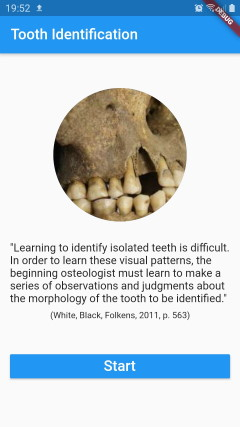
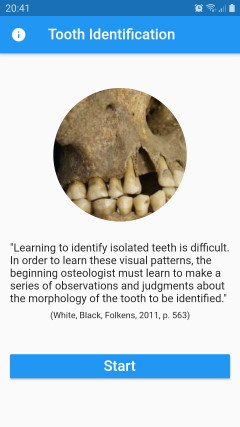
about dialog

Changed region(s): [[0.0292, 0.0609, 0.7292, 0.1218], [0.8458, 0.0, 1.0, 0.0913], [0.0292, 0.0, 0.175, 0.0304]]

diff --git a/lib/main.dart b/lib/main.dart
@@ -1,12 +1,12 @@
 import 'package:flutter/material.dart';
 import 'screens/screen22.dart';
+import 'package:toothidentapp/tools/tools.dart';
 
 void main() {
   runApp(ToothApp());
 }
 
 class ToothApp extends StatelessWidget {
-  // This widget is the root of your application.
   @override
   Widget build(BuildContext context) {
     return MaterialApp(
@@ -18,19 +18,7 @@ class ToothApp extends StatelessWidget {
         Screen22.id: (context) => Screen22(),
       },
       theme: ThemeData(
-        // This is the theme of your application.
-        //
-        // Try running your application with "flutter run". You'll see the
-        // application has a blue toolbar. Then, without quitting the app, try
-        // changing the primarySwatch below to Colors.green and then invoke
-        // "hot reload" (press "r" in the console where you ran "flutter run",
-        // or simply save your changes to "hot reload" in a Flutter IDE).
-        // Notice that the counter didn't reset back to zero; the application
-        // is not restarted.
         primarySwatch: Colors.blue,
-        // This makes the visual density adapt to the platform that you run
-        // the app on. For desktop platforms, the controls will be smaller and
-        // closer together (more dense) than on mobile platforms.
         visualDensity: VisualDensity.adaptivePlatformDensity,
       ),
     );
@@ -41,15 +29,6 @@ class MyHomePage extends StatefulWidget {
   static const String id = 'Home';
   MyHomePage({Key key, this.title}) : super(key: key);
 
-  // This widget is the home page of your application. It is stateful, meaning
-  // that it has a State object (defined below) that contains fields that affect
-  // how it looks.
-
-  // This class is the configuration for the state. It holds the values (in this
-  // case the title) provided by the parent (in this case the App widget) and
-  // used by the build method of the State. Fields in a Widget subclass are
-  // always marked "final".
-
   final String title;
 
   @override
@@ -59,89 +38,73 @@ class MyHomePage extends StatefulWidget {
 class _MyHomePageState extends State<MyHomePage> {
   @override
   Widget build(BuildContext context) {
-    // This method is rerun every time setState is called, for instance as done
-    // by the _incrementCounter method above.
-    //
-    // The Flutter framework has been optimized to make rerunning build methods
-    // fast, so that you can just rebuild anything that needs updating rather
-    // than having to individually change instances of widgets.
     return Scaffold(
       appBar: AppBar(
-        // Here we take the value from the MyHomePage object that was created by
-        // the App.build method, and use it to set our appbar title.
         title: Text(widget.title),
+        leading: IconButton(
+          icon: Icon(Icons.info),
+          onPressed: () {
+            showAppAbout(context);
+          },
+        ),
       ),
       body: Center(
-        // Center is a layout widget. It takes a single child and positions it
-        // in the middle of the parent.
-        child: Column(
-          // Column is also a layout widget. It takes a list of children and
-          // arranges them vertically. By default, it sizes itself to fit its
-          // children horizontally, and tries to be as tall as its parent.
-          //
-          // Invoke "debug painting" (press "p" in the console, choose the
-          // "Toggle Debug Paint" action from the Flutter Inspector in Android
-          // Studio, or the "Toggle Debug Paint" command in Visual Studio Code)
-          // to see the wireframe for each widget.
-          //
-          // Column has various properties to control how it sizes itself and
-          // how it positions its children. Here we use mainAxisAlignment to
-          // center the children vertically; the main axis here is the vertical
-          // axis because Columns are vertical (the cross axis would be
-          // horizontal).
-          mainAxisAlignment: MainAxisAlignment.center,
-          children: <Widget>[
-            CircleAvatar(
-              radius: 100.0,
-              backgroundImage: AssetImage('images/tooth.jpg'),
-            ),
-            Padding(
-              padding:
-                  const EdgeInsets.symmetric(horizontal: 15.0, vertical: 30.0),
-              child: Column(
-                children: <Widget>[
-                  Text(
-                    '"Learning to identify isolated teeth is difficult. ' +
-                        'In order to learn these visual patterns, ' +
-                        'the beginning osteologist must learn to make a series of ' +
-                        'observations and judgments about the morphology of the tooth ' +
-                        'to be identified."',
-                    style: TextStyle(fontSize: 15.0),
-                  ),
-                  SizedBox(height: 8.0),
-                  Text(
-                    '(White, Black, Folkens, 2011, p. 563)',
-                    style: TextStyle(fontSize: 12.0),
-                    textAlign: TextAlign.right,
-                  )
-                ],
+        child: SingleChildScrollView(
+          child: Column(
+            mainAxisAlignment: MainAxisAlignment.center,
+            children: <Widget>[
+              CircleAvatar(
+                radius: 100.0,
+                backgroundImage: AssetImage('images/tooth.jpg'),
               ),
-            ),
-            Padding(
-              padding: const EdgeInsets.all(15.0),
-              child: Row(
-                children: <Widget>[
-                  Expanded(
-                    flex: 1,
-                    child: RaisedButton(
-                      child: Text(
-                        'Start',
-                        style: TextStyle(
-                          fontSize: 20.0,
-                          color: Colors.white,
-                        ),
-                      ),
-                      color: Colors.blue,
-                      onPressed: () {
-                        // go to first screen
-                        Navigator.pushNamed(context, Screen22.id);
-                      },
+              Padding(
+                padding: const EdgeInsets.symmetric(
+                    horizontal: 15.0, vertical: 30.0),
+                child: Column(
+                  children: <Widget>[
+                    Text(
+                      '"Learning to identify isolated teeth is difficult. ' +
+                          'In order to learn these visual patterns, ' +
+                          'the beginning osteologist must learn to make a series of ' +
+                          'observations and judgments about the morphology of the tooth ' +
+                          'to be identified."',
+                      style: TextStyle(fontSize: 15.0),
                     ),
-                  ),
-                ],
+                    SizedBox(height: 8.0),
+                    Text(
+                      '(White, Black, Folkens, 2011, p. 563)',
+                      style: TextStyle(fontSize: 12.0),
+                      textAlign: TextAlign.right,
+                    )
+                  ],
+                ),
               ),
-            ),
-          ],
+              Padding(
+                padding: const EdgeInsets.all(15.0),
+                child: Row(
+                  children: <Widget>[
+                    Expanded(
+                      flex: 1,
+                      child: RaisedButton(
+                        child: Text(
+                          'Start',
+                          style: TextStyle(
+                            fontSize: 20.0,
+                            color: Colors.white,
+                          ),
+                        ),
+                        color: Colors.blue,
+                        onPressed: () {
+                          // go to first screen
+                          Navigator.pushNamed(context, Screen22.id);
+                        },
+                      ),
+                    ),
+                  ],
+                ),
+              ),
+            ],
+          ),
         ),
       ),
     );

diff --git a/lib/screens/screen22.dart b/lib/screens/screen22.dart
@@ -2,6 +2,7 @@ import 'package:flutter/material.dart';
 import 'package:toothidentapp/data/decisions.dart';
 import 'package:toothidentapp/models/decisionstep.dart';
 import 'package:toothidentapp/constans.dart';
+import 'package:toothidentapp/tools/tools.dart';
 
 int _currentStep = 0;
 List<String> _historySteps = ['2.2'];
@@ -121,7 +122,12 @@ class _Screen22State extends State<Screen22> {
               },
             )
           ],
-          leading: new Container(),
+          leading: IconButton(
+            icon: Icon(Icons.info),
+            onPressed: () {
+              showAppAbout(context);
+            },
+          ),
         ),
         body: isQuestion(_currentStep)
             ? Decision(

diff --git a/lib/tools/tools.dart b/lib/tools/tools.dart
@@ -1,0 +1,15 @@
+import 'package:flutter/material.dart';
+
+void showAppAbout(BuildContext context) {
+  showAboutDialog(
+      context: context,
+      applicationIcon: Icon(Icons.device_hub),
+      applicationName: 'Tooth Identification',
+      applicationVersion: '0.1',
+      applicationLegalese: 'Developed by Piotr Jaskulski',
+      children: <Widget>[
+        Text(
+            'Application based on methodology described in: "Human Osteology" (Tim D. White, Michael T. Black, Pieter A. Folkens, Academic Press 2011).'),
+        Text('Simple interactive decision tree.'),
+      ]);
+}
